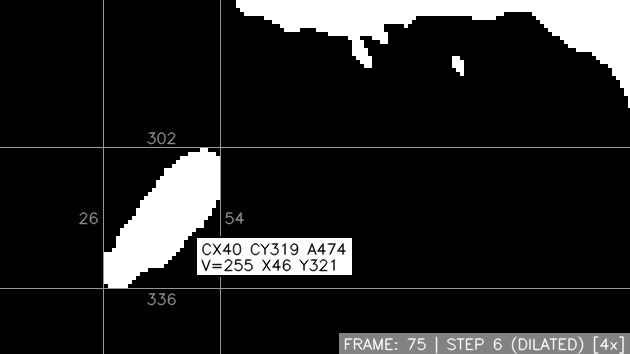
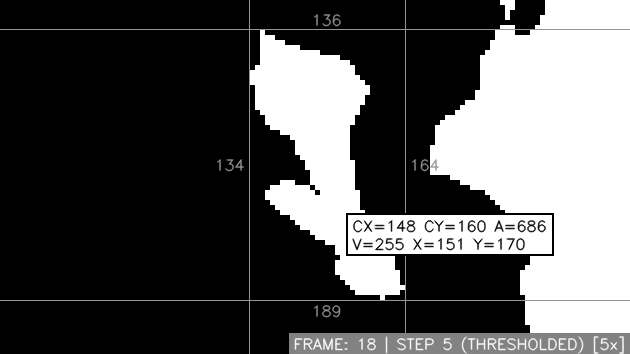
doc: Add zoom & label to README
Working version

diff --git a/src/visualizer.py b/src/visualizer.py
@@ -418,7 +418,7 @@ class ProcessingVisualizer():
 		## Displayed in two lines for better readability
 		if len(img.shape) == 3:
 			text_top = f'BGR={px_str}'
-			text_bottom = f'X{x} Y{y}'
+			text_bottom = f'X={x} Y={y}'
 		else:
 			if is_binary_image(self.images[orig_step]):
 				ret = self._get_contour_info(orig_step, x=x, y=y)
@@ -426,14 +426,14 @@ class ProcessingVisualizer():
 				if ret is not None:
 					(cx, cy), (xmin, ymin), (xmax, ymax), area = ret
 					draw_img = self._draw_contour_bbox(draw_img, xmin, xmax, ymin, ymax)
-					text_top = f'CX{cx} CY{cy} A{area}'
-					text_bottom = f'V={px_str} X{x} Y{y}'
+					text_top = f'CX={cx} CY={cy} A={area}'
+					text_bottom = f'V={px_str} X={x} Y={y}'
 				else:
 					text_top = f'V={px_str}'
-					text_bottom = f'X{x} Y{y}'
+					text_bottom = f'X={x} Y={y}'
 			else:
 				text_top = f'V={px_str}'
-				text_bottom = f'X{x} Y{y}'
+				text_bottom = f'X={x} Y={y}'
 
 
 		## Bottom and top text line sizes
@@ -567,8 +567,8 @@ class ProcessingVisualizer():
 				## Take a screenshot of the current step being displayed (save it to an image file)
 				## Note that even if the label is being displayed, the raw image (without the label) will be saved
 				elif key == ord(self.CFG.KEYS.SCREENSHOT):
-					images_to_save.add(self.images[i], i, self.step_names[i])
-					# images_to_save.add(img, i, self.step_names[i]) ## Switch this line with the one above to save screenshots with visualizations
+					# images_to_save.add(self.images[i], i, self.step_names[i])
+					images_to_save.add(img, i, self.step_names[i]) ## Switch this line with the one above to save screenshots with visualizations
 
 		## Show the last image (most likely the final processing step) given to the visualizer
 		else:

diff --git a/README.md b/README.md
@@ -34,7 +34,7 @@ To play around with the functionalities, simply run
 ```shell
 python src/main.py
 ```
-You can stop at any frame by pressing `c`. You can then jump forwards and back between each step of processing with `a` (one step back) and `d` (one step forward). At any step, you can press `s` in order to save that step separately to an image file. Press `c` again to return to resume, and press `q` at any time to exit. Note that you can change the key mappings to whatever you want in [the config file](config/config.yaml). You can also play around with the config values to get a different result.
+You can stop at any frame by pressing `c`. You can then jump forwards and back between each step of processing with `a` (one step back) and `d` (one step forward). At any step, you can press `s` in order to save that step separately to an image file. Press `c` again to return to resume, and press `q` at any time to exit.
 
 You can zoom into the image, by using `=` (zoom in) and `-` (zoom out):
 <p align="center">
@@ -46,7 +46,14 @@ By clicking your left mouse button, you can toggle pixel inspection. For color i
   <img src="resources/px_label.png" />
 </p>
 
+While inspecting a binary image (for example after thresholding), you can also view the information about the contour that you hover over:
+<p align="center">
+  <img src="resources/contour.png" />
+</p>
 
+You're given the maximum and minimum X and Y values of a contour (gray numbers on image). The center of mass of a contour (`CX=` and `CY=` on the label) and its area (`A=` on the label) will also be displayed. (**NOTE**: The area is calculated using `cv2.contourArea()`, which uses Green's formula to calculate the area. This means that most of the time, the displayed contour area and the actual count of its pixels will not be exactly the same.)
+
+Note that you can change the key mappings to whatever you want in [the config file](config/config.yaml). You can also play around with the config values to get a different result.
 
 ### Implementing your own algorithms
 You can write your own algorithm by writing the processing steps in [`main.py`](src/main.py). Adding the line 
@@ -103,12 +110,5 @@ submit a PR!
 
 
 ## TODO
-- [ ] README - zoom functionality, zoom scrolling, pixel value inspector
 - [ ] Add a slider for value tuning (e.g. threshold)
-- [X] Add RGB pixel inspector to inspect mode (with pixel indices) (turn on/off by clicking right mouse button)
-- [X] Add grayscale inspector with contour info
-- [X] Fix image out of bounds mouse position
-- [X] Tune contrast threshold
-- [X] Fix label being blue on white background
-- [X] Fix label near bottom left corner
-- [X] Add zoom in/out functions for better pixel inspection (also a reset key)
+- [ ] Slider README info
